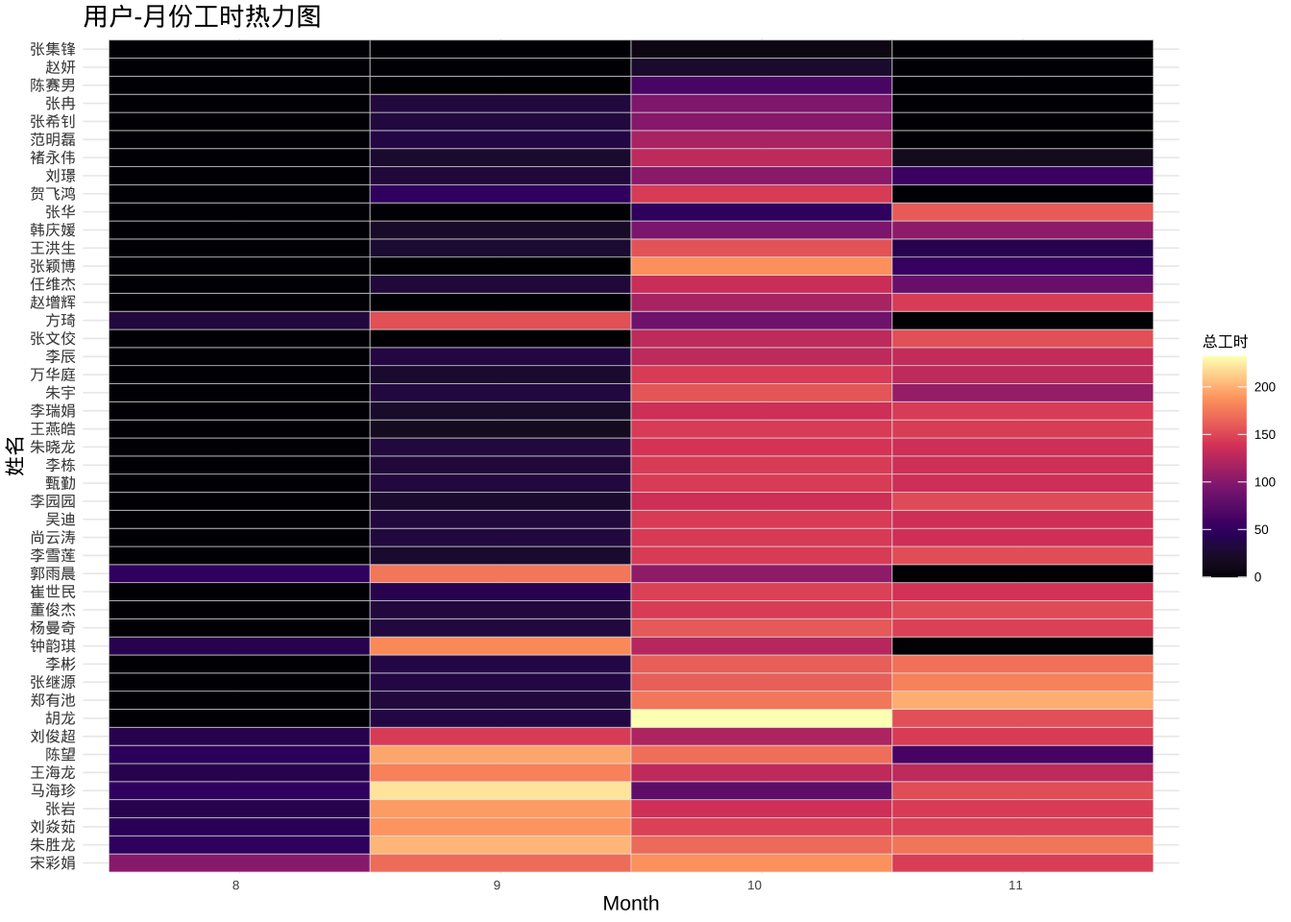
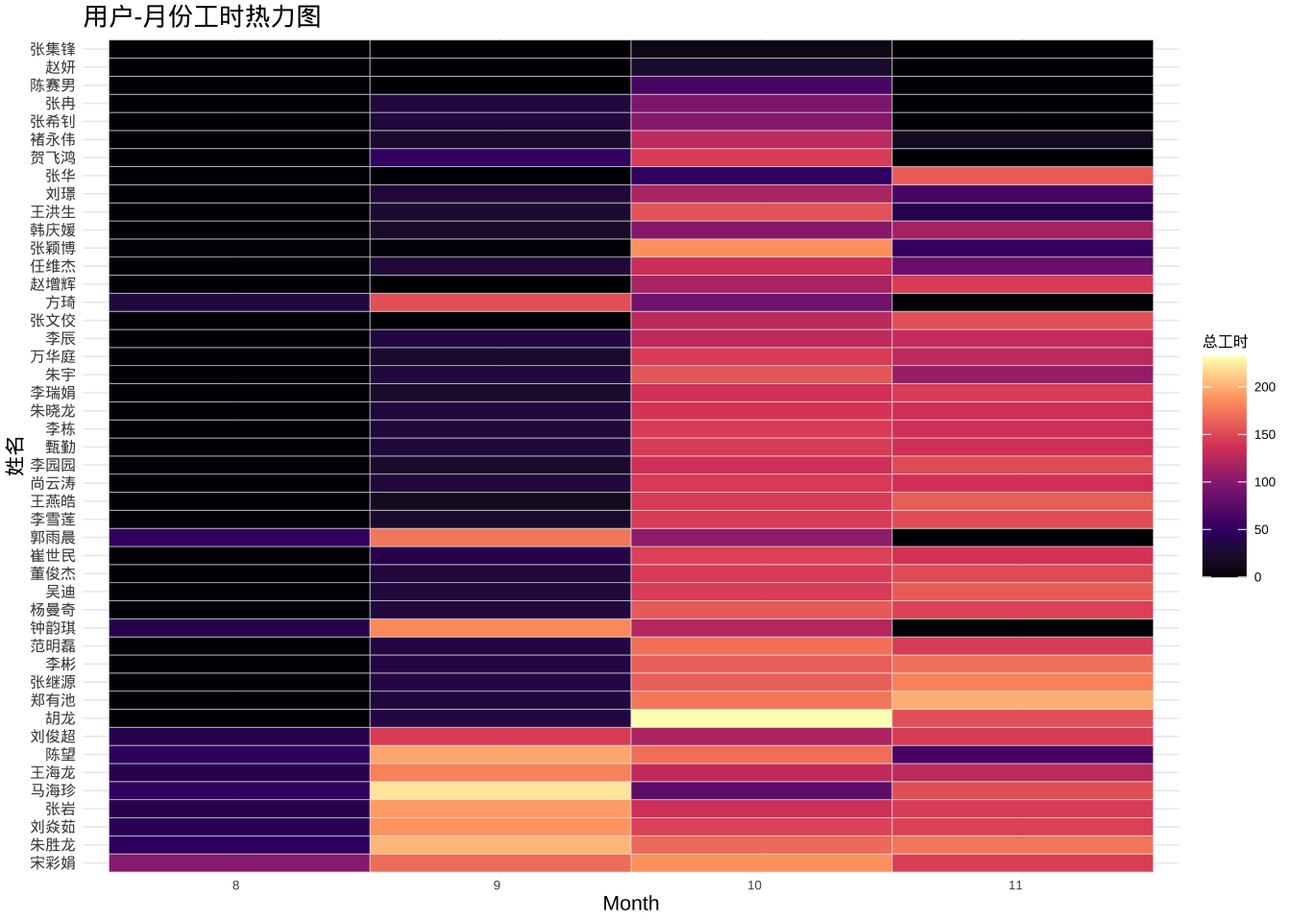
add 地坪图

Changed region(s): [[0.0, 0.125, 0.9062, 0.7188]]

diff --git a/project_hour.html b/project_hour.html
@@ -101,6 +101,7 @@ pre > code.sourceCode > span > a:first-child::before { text-decoration: underlin
   <ul class="collapse">
   <li><a href="#月度-项目工时分析" id="toc-月度-项目工时分析" class="nav-link" data-scroll-target="#月度-项目工时分析">2.1 月度-项目工时分析</a></li>
   <li><a href="#月度-员工工时分析" id="toc-月度-员工工时分析" class="nav-link" data-scroll-target="#月度-员工工时分析">2.2 月度-员工工时分析</a></li>
+  <li><a href="#项目地坪线图ridgeline-地坪线图" id="toc-项目地坪线图ridgeline-地坪线图" class="nav-link" data-scroll-target="#项目地坪线图ridgeline-地坪线图">3.3 项目地坪线图（Ridgeline / 地坪线图）</a></li>
   </ul></li>
   <li><a href="#分析图表" id="toc-分析图表" class="nav-link" data-scroll-target="#分析图表">3. 分析图表</a></li>
   <li><a href="#基于已有-user_hour-对象构造可复用的-ggplot-分析图" id="toc-基于已有-user_hour-对象构造可复用的-ggplot-分析图" class="nav-link" data-scroll-target="#基于已有-user_hour-对象构造可复用的-ggplot-分析图">3.1 基于已有 user_hour 对象构造可复用的 ggplot 分析图</a>
@@ -201,8 +202,8 @@ Caused by warning:
 <span id="cb3-9"><a href="#cb3-9" aria-hidden="true" tabindex="-1"></a><span class="fu">datatable</span>(project_hour)</span></code></pre></div><button title="Copy to Clipboard" class="code-copy-button"><i class="bi"></i></button></div>
 </details>
 <div class="cell-output-display">
-<div class="datatables html-widget html-fill-item" id="htmlwidget-3d39331e9e2b1d4514fa" style="width:100%;height:auto;"></div>
-<script type="application/json" data-for="htmlwidget-3d39331e9e2b1d4514fa">{"x":{"filter":"none","vertical":false,"data":[["1","2","3","4","5","6","7","8","9","10","11","12","13","14","15","16","17","18","19","20","21","22","23","24","25","26","27","28","29","30","31","32","33","34","35","36","37","38","39","40","41","42","43","44","45","46","47","48","49","50","51","52","53","54","55","56","57","58","59","60","61","62","63","64","65","66","67","68","69","70","71","72","73","74","75","76","77","78","79","80","81","82","83","84","85","86","87","88","89","90","91","92","93","94","95","96","97","98","99","100","101","102","103","104","105","106","107","108","109","110","111","112","113","114","115","116","117","118","119","120","121","122","123","124","125","126","127","128","129","130","131","132","133","134","135","136","137","138","139","140","141","142","143","144","145","146","147","148","149","150","151","152","153","154","155","156","157","158","159","160","161","162"],["10","10","10","10","10","10","10","10","10","10","10","10","10","10","10","10","10","10","10","10","10","10","10","10","10","10","10","10","10","10","10","10","10","10","10","10","10","10","10","10","10","10","10","10","10","10","10","10","10","10","10","10","10","10","10","10","10","10","10","10","10","11","11","11","11","11","11","11","11","11","11","11","11","11","11","11","11","11","11","11","11","11","11","11","11","11","11","11","11","11","11","11","11","11","11","11","11","11","11","11","11","11","11","11","11","11","11","11","11","11","11","8","8","8","8","8","8","8","8","8","9","9","9","9","9","9","9","9","9","9","9","9","9","9","9","9","9","9","9","9","9","9","9","9","9","9","9","9","9","9","9","9","9","9","9","9","9","9","9","9","9","9"],["B-咨询-北京通州梨园","BIM装配式建筑设计建造一体化","C-成都54亩项目","C-成都麓湖33+62亩项目","C-长沙天心区044地块项目二期调规24-02","C-长沙岳麓大道南54亩项目","C-长沙麓谷涉外地块项目","C端家装业务","G-咨询-广州天河梅花铝厂","G-精装-广州天河梅花铝厂","G-贵阳国际城J组团项目24-4","G-贵阳普天1#地项目","J-咨询-金华西关项目","J-工程-江门蓬江代建文化中心","M-房山改造投标","N-咨询-南沙坦尾旧改项目（融资地块）","Q-青岛惠水路项目（LC0302-33地块、LC0303-16地块、LC0303-17地块）","S-深圳光明区可研","S-深圳红花山项目","T-咨询-太原金碧天下","T-太原小店村代建项目25-6","T-太原彭村项目25-13","W-咨询-无锡南光置业","X-咨询-西安井上村DK8地块","X-咨询-西安港务区46亩项目","X-咨询-雄安站枢纽片区2号地项目","X-工程-雄安站枢纽片区2号地","X-工程-雄安站枢纽片区2号地二标段","X-工程-雄安站枢纽片区2号地四标段","X-雄安7号楼2栋6层东侧精装","Z-咨询-涿州391亩地项目","s-西安-西派和樾项目","上海松江新城C03A-04地块项目","业务研发","公共空间设计导则","其他","冒沙井","创一-南沙坦尾旧改项目","北京市通州区梨园项目","北京朝阳区松榆里项目","南通项目","咨询-零碳建筑技术体系及关键技术研究","城市更新中智慧停车的系统性研究","存量资产价值重塑及配套技术策略研究","安全生产“雷霆行动”","日常工作","日常性工作","樽2立面标准化研究","济南土河东项目","济南遥墙机场项目","涿州高铁新城","深化设计板块","物业痛点问题及节能改造","行政工作配合","西安中国铁建·语澜溪项目","西安港务区港务区46亩","西派玺樾项目","贵阳兰草坝棚户区03-01地块","酒店产品线课题","长沙天心区044地块项目","高定界面体系形象研究","A-上海-松江05-02","B-咨询-北京通州梨园","BIM装配式建筑设计建造一体化","C-咨询-成都双流区麓湖76亩项目","C-成都54亩项目","C-成都麓湖33+62亩项目","C-长沙天心区044地块项目二期调规24-02","C-长沙岳麓大道南54亩项目","C-长沙麓谷涉外地块项目","G-精装-广州天河梅花铝厂","G-贵阳普天1#地项目","J-咨询-金华西关项目","M-房山改造投标","Q-青岛惠水路项目（LC0302-33地块、LC0303-16地块、LC0303-17地块）","S-深圳光明区可研","S-深圳红花山项目","T-咨询-太原金碧天下","T-太原小店村代建项目25-6","T-太原彭村项目25-13","T-精装-天津花语尚东项目三四期","W-咨询-无锡南光置业","X-咨询-西安港务区46亩项目","X-工程-雄安站枢纽片区2号地","X-工程-雄安站枢纽片区2号地二标段","X-工程-雄安站枢纽片区2号地四标段","X-雄安7号楼2栋6层东侧精装","Z-咨询-涿州391亩地项目","上海松江新城C03A-04地块项目","上海西渡项目","业务研发","其他","创一-南沙坦尾旧改项目","北京亦庄新城1401地块","北京市通州区梨园项目","南通项目","咨询-零碳建筑技术体系及关键技术研究","存量资产价值重塑及配套技术策略研究","安全生产“雷霆行动”","日常工作","日常性工作","济南遥墙机场项目","深化设计板块","物业痛点问题及节能改造","立体山水创新研究","行政工作配合","西安井上村DK8地块项目","西安港务区代建108亩","酒店产品线课题","雄安C1-10-01地块项目","高定界面体系形象研究","B-咨询-北京通州梨园","BIM装配式建筑设计建造一体化","C-成都54亩项目","F-中山街道08/04两地块-25-2","X-雄安7号楼2栋6层东侧精装","上海松江新城C03A-04地块项目","日常性工作","济南遥墙机场项目","西安中国铁建·语澜溪项目","B-咨询-北京通州梨园","BIM装配式建筑设计建造一体化","C-成都54亩项目","C-成都麓湖33+62亩项目","C-长沙岳麓大道南54亩项目","F-中山街道08/04两地块-25-2","G-精装-广州天河梅花铝厂","G-贵阳国际城J组团项目24-4","J-咨询-金华西关项目","Q-青岛惠水路项目（LC0302-33地块、LC0303-16地块、LC0303-17地块）","S-深圳光明区可研","S-深圳红花山项目","T-咨询-天津国印二期三期项目","T-太原彭村项目25-13","W-咨询-无锡南光置业","X-咨询-西安井上村DK9地块","X-工程-雄安站枢纽片区2号地","X-工程-雄安站枢纽片区2号地二标段","X-工程-雄安站枢纽片区2号地四标段","X-雄安7号楼2栋6层东侧精装","上海松江新城C03A-04地块项目","业务研发","公共空间设计导则","其他","冒沙井","北京可研23-01","北京市通州区梨园项目","南通项目","可建造BIM钢结构项目管控","城市更新中智慧停车的系统性研究","存量资产价值重塑及配套技术策略研究","日常工作","日常性工作","松江新城项目","济南遥墙机场项目","深圳0823地块","物业痛点问题及节能改造","立体山水创新研究","行政工作配合","西安港务区港务区46亩","贵阳可研23-01","酒店产品线课题"],[167.5,427,374.5,86,10,83,24,52,16,241,11,8,134,1,18,17,487,73,187,12,26,334,16,5,4,6,98,21,317,108,30,8,182,56,49,224.5,8,6,80,72,6,48,48,385,44,85,307,16,75,169,64,33,150,47,5,1,8,34,335,2,42,16,119.5,483,8.5,171,223,8,284.5,16,342,20,3,6,16,9,604.5,77,69,322,30,40,3,158,2,202,18,14,116,2,49,87,9,18,3,5,30.5,213,36,152,68,96,120,134,4,67,1,31,91,72,22,40,124,152,8,8,96.5,52,40,6,81,525,341,32,28,52,48,8,12,72,33,24,20,72,8,5,34.5,15,58,104,451.7,30,10,20.5,4,6,51,11,32,15,58,8,254,5,200,8,48,4,1,12,4,62]],"container":"<table class=\"display\">\n  <thead>\n    <tr>\n      <th> <\/th>\n      <th>Month<\/th>\n      <th>项目名称<\/th>\n      <th>总工时<\/th>\n    <\/tr>\n  <\/thead>\n<\/table>","options":{"columnDefs":[{"className":"dt-right","targets":3},{"orderable":false,"targets":0},{"name":" ","targets":0},{"name":"Month","targets":1},{"name":"项目名称","targets":2},{"name":"总工时","targets":3}],"order":[],"autoWidth":false,"orderClasses":false}},"evals":[],"jsHooks":[]}</script>
+<div class="datatables html-widget html-fill-item" id="htmlwidget-e74c20ff4902f5d9cc43" style="width:100%;height:auto;"></div>
+<script type="application/json" data-for="htmlwidget-e74c20ff4902f5d9cc43">{"x":{"filter":"none","vertical":false,"data":[["1","2","3","4","5","6","7","8","9","10","11","12","13","14","15","16","17","18","19","20","21","22","23","24","25","26","27","28","29","30","31","32","33","34","35","36","37","38","39","40","41","42","43","44","45","46","47","48","49","50","51","52","53","54","55","56","57","58","59","60","61","62","63","64","65","66","67","68","69","70","71","72","73","74","75","76","77","78","79","80","81","82","83","84","85","86","87","88","89","90","91","92","93","94","95","96","97","98","99","100","101","102","103","104","105","106","107","108","109","110","111","112","113","114","115","116","117","118","119","120","121","122","123","124","125","126","127","128","129","130","131","132","133","134","135","136","137","138","139","140","141","142","143","144","145","146","147","148","149","150","151","152","153","154","155","156","157","158","159","160","161","162"],["10","10","10","10","10","10","10","10","10","10","10","10","10","10","10","10","10","10","10","10","10","10","10","10","10","10","10","10","10","10","10","10","10","10","10","10","10","10","10","10","10","10","10","10","10","10","10","10","10","10","10","10","10","10","10","10","10","10","10","10","10","11","11","11","11","11","11","11","11","11","11","11","11","11","11","11","11","11","11","11","11","11","11","11","11","11","11","11","11","11","11","11","11","11","11","11","11","11","11","11","11","11","11","11","11","11","11","11","11","11","11","8","8","8","8","8","8","8","8","8","9","9","9","9","9","9","9","9","9","9","9","9","9","9","9","9","9","9","9","9","9","9","9","9","9","9","9","9","9","9","9","9","9","9","9","9","9","9","9","9","9","9"],["B-咨询-北京通州梨园","BIM装配式建筑设计建造一体化","C-成都54亩项目","C-成都麓湖33+62亩项目","C-长沙天心区044地块项目二期调规24-02","C-长沙岳麓大道南54亩项目","C-长沙麓谷涉外地块项目","C端家装业务","G-咨询-广州天河梅花铝厂","G-精装-广州天河梅花铝厂","G-贵阳国际城J组团项目24-4","G-贵阳普天1#地项目","J-咨询-金华西关项目","J-工程-江门蓬江代建文化中心","M-房山改造投标","N-咨询-南沙坦尾旧改项目（融资地块）","Q-青岛惠水路项目（LC0302-33地块、LC0303-16地块、LC0303-17地块）","S-深圳光明区可研","S-深圳红花山项目","T-咨询-太原金碧天下","T-太原小店村代建项目25-6","T-太原彭村项目25-13","W-咨询-无锡南光置业","X-咨询-西安井上村DK8地块","X-咨询-西安港务区46亩项目","X-咨询-雄安站枢纽片区2号地项目","X-工程-雄安站枢纽片区2号地","X-工程-雄安站枢纽片区2号地二标段","X-工程-雄安站枢纽片区2号地四标段","X-雄安7号楼2栋6层东侧精装","Z-咨询-涿州391亩地项目","s-西安-西派和樾项目","上海松江新城C03A-04地块项目","业务研发","公共空间设计导则","其他","冒沙井","创一-南沙坦尾旧改项目","北京市通州区梨园项目","北京朝阳区松榆里项目","南通项目","咨询-零碳建筑技术体系及关键技术研究","城市更新中智慧停车的系统性研究","存量资产价值重塑及配套技术策略研究","安全生产“雷霆行动”","日常工作","日常性工作","樽2立面标准化研究","济南土河东项目","济南遥墙机场项目","涿州高铁新城","深化设计板块","物业痛点问题及节能改造","行政工作配合","西安中国铁建·语澜溪项目","西安港务区港务区46亩","西派玺樾项目","贵阳兰草坝棚户区03-01地块","酒店产品线课题","长沙天心区044地块项目","高定界面体系形象研究","A-上海-松江05-02","B-咨询-北京通州梨园","BIM装配式建筑设计建造一体化","C-咨询-成都双流区麓湖76亩项目","C-成都54亩项目","C-成都麓湖33+62亩项目","C-长沙天心区044地块项目二期调规24-02","C-长沙岳麓大道南54亩项目","C-长沙麓谷涉外地块项目","G-精装-广州天河梅花铝厂","G-贵阳普天1#地项目","J-咨询-金华西关项目","M-房山改造投标","Q-青岛惠水路项目（LC0302-33地块、LC0303-16地块、LC0303-17地块）","S-深圳光明区可研","S-深圳红花山项目","T-咨询-太原金碧天下","T-太原小店村代建项目25-6","T-太原彭村项目25-13","T-精装-天津花语尚东项目三四期","W-咨询-无锡南光置业","X-咨询-西安港务区46亩项目","X-工程-雄安站枢纽片区2号地","X-工程-雄安站枢纽片区2号地二标段","X-工程-雄安站枢纽片区2号地四标段","X-雄安7号楼2栋6层东侧精装","Z-咨询-涿州391亩地项目","上海松江新城C03A-04地块项目","上海西渡项目","业务研发","其他","创一-南沙坦尾旧改项目","北京亦庄新城1401地块","北京市通州区梨园项目","南通项目","咨询-零碳建筑技术体系及关键技术研究","存量资产价值重塑及配套技术策略研究","安全生产“雷霆行动”","日常工作","日常性工作","济南遥墙机场项目","深化设计板块","物业痛点问题及节能改造","立体山水创新研究","行政工作配合","西安井上村DK8地块项目","西安港务区代建108亩","酒店产品线课题","雄安C1-10-01地块项目","高定界面体系形象研究","B-咨询-北京通州梨园","BIM装配式建筑设计建造一体化","C-成都54亩项目","F-中山街道08/04两地块-25-2","X-雄安7号楼2栋6层东侧精装","上海松江新城C03A-04地块项目","日常性工作","济南遥墙机场项目","西安中国铁建·语澜溪项目","B-咨询-北京通州梨园","BIM装配式建筑设计建造一体化","C-成都54亩项目","C-成都麓湖33+62亩项目","C-长沙岳麓大道南54亩项目","F-中山街道08/04两地块-25-2","G-精装-广州天河梅花铝厂","G-贵阳国际城J组团项目24-4","J-咨询-金华西关项目","Q-青岛惠水路项目（LC0302-33地块、LC0303-16地块、LC0303-17地块）","S-深圳光明区可研","S-深圳红花山项目","T-咨询-天津国印二期三期项目","T-太原彭村项目25-13","W-咨询-无锡南光置业","X-咨询-西安井上村DK9地块","X-工程-雄安站枢纽片区2号地","X-工程-雄安站枢纽片区2号地二标段","X-工程-雄安站枢纽片区2号地四标段","X-雄安7号楼2栋6层东侧精装","上海松江新城C03A-04地块项目","业务研发","公共空间设计导则","其他","冒沙井","北京可研23-01","北京市通州区梨园项目","南通项目","可建造BIM钢结构项目管控","城市更新中智慧停车的系统性研究","存量资产价值重塑及配套技术策略研究","日常工作","日常性工作","松江新城项目","济南遥墙机场项目","深圳0823地块","物业痛点问题及节能改造","立体山水创新研究","行政工作配合","西安港务区港务区46亩","贵阳可研23-01","酒店产品线课题"],[167.5,427,374.5,86,10,83,44,52,16,241,11,8,134,1,18,17,487,73,229,12,23,334,16,5,4,6,98,21,317,108,30,8,182,56,49,236.5,8,6,80,72,6,48,48,385,44,85,307,16,75,169,64,33,150,51,5,1,8,34,335,2,42,16,119.5,483,8.5,171,223,8,274.5,53,350,20,3,6,16,9,748.5,61,69,322,30,40,3,158,2,202,26,14,116,2,49,87,9,18,3,5,30.5,213,36,160,74,96,120,134,6,67,1,31,107,72,22,40,124,152,8,8,96.5,52,40,6,81,525,341,32,28,52,48,8,12,72,33,24,20,72,8,5,34.5,15,58,104,451.7,30,10,20.5,4,6,51,11,32,15,58,8,254,5,200,8,48,4,1,12,4,62]],"container":"<table class=\"display\">\n  <thead>\n    <tr>\n      <th> <\/th>\n      <th>Month<\/th>\n      <th>项目名称<\/th>\n      <th>总工时<\/th>\n    <\/tr>\n  <\/thead>\n<\/table>","options":{"columnDefs":[{"className":"dt-right","targets":3},{"orderable":false,"targets":0},{"name":" ","targets":0},{"name":"Month","targets":1},{"name":"项目名称","targets":2},{"name":"总工时","targets":3}],"order":[],"autoWidth":false,"orderClasses":false}},"evals":[],"jsHooks":[]}</script>
 </div>
 </div>
 </section>
@@ -223,8 +224,8 @@ Caused by warning:
 <span id="cb4-10"><a href="#cb4-10" aria-hidden="true" tabindex="-1"></a><span class="fu">datatable</span>(user_hour)</span></code></pre></div><button title="Copy to Clipboard" class="code-copy-button"><i class="bi"></i></button></div>
 </details>
 <div class="cell-output-display">
-<div class="datatables html-widget html-fill-item" id="htmlwidget-f560bc6de32649d20a88" style="width:100%;height:auto;"></div>
-<script type="application/json" data-for="htmlwidget-f560bc6de32649d20a88">{"x":{"filter":"none","vertical":false,"data":[["1","2","3","4","5","6","7","8","9","10","11","12","13","14","15","16","17","18","19","20","21","22","23","24","25","26","27","28","29","30","31","32","33","34","35","36","37","38","39","40","41","42","43","44","45","46","47","48","49","50","51","52","53","54","55","56","57","58","59","60","61","62","63","64","65","66","67","68","69","70","71","72","73","74","75","76","77","78","79","80","81","82","83","84","85","86","87","88","89","90","91","92","93","94","95","96","97","98","99","100","101","102","103","104","105","106","107","108","109","110","111","112","113","114","115","116","117","118","119","120","121","122","123","124","125","126","127","128","129","130","131","132"],["10","10","10","10","10","10","10","10","10","10","10","10","10","10","10","10","10","10","10","10","10","10","10","10","10","10","10","10","10","10","10","10","10","10","10","10","10","10","10","10","10","10","10","10","10","10","11","11","11","11","11","11","11","11","11","11","11","11","11","11","11","11","11","11","11","11","11","11","11","11","11","11","11","11","11","11","11","11","11","11","11","11","8","8","8","8","8","8","8","8","8","8","8","9","9","9","9","9","9","9","9","9","9","9","9","9","9","9","9","9","9","9","9","9","9","9","9","9","9","9","9","9","9","9","9","9","9","9","9","9","9","9"],["万华庭","任维杰","刘俊超","刘焱茹","刘璟","吴迪","宋彩娟","尚云涛","崔世民","张冉","张华","张岩","张希钊","张文佼","张继源","张集锋","张颖博","方琦","朱宇","朱晓龙","朱胜龙","李园园","李彬","李栋","李瑞娟","李辰","李雪莲","杨曼奇","王洪生","王海龙","王燕皓","甄勤","胡龙","范明磊","董俊杰","褚永伟","贺飞鸿","赵增辉","赵妍","郑有池","郭雨晨","钟韵琪","陈望","陈赛男","韩庆媛","马海珍","万华庭","任维杰","刘俊超","刘焱茹","刘璟","吴迪","宋彩娟","尚云涛","崔世民","张华","张岩","张文佼","张继源","张颖博","朱宇","朱晓龙","朱胜龙","李园园","李彬","李栋","李瑞娟","李辰","李雪莲","杨曼奇","王洪生","王海龙","王燕皓","甄勤","胡龙","董俊杰","褚永伟","赵增辉","郑有池","陈望","韩庆媛","马海珍","刘俊超","刘焱茹","宋彩娟","张岩","方琦","朱胜龙","王海龙","郭雨晨","钟韵琪","陈望","马海珍","万华庭","任维杰","刘俊超","刘焱茹","刘璟","吴迪","宋彩娟","尚云涛","崔世民","张冉","张岩","张希钊","张继源","方琦","朱宇","朱晓龙","朱胜龙","李园园","李彬","李栋","李瑞娟","李辰","李雪莲","杨曼奇","王洪生","王海龙","王燕皓","甄勤","胡龙","范明磊","董俊杰","褚永伟","贺飞鸿","郑有池","郭雨晨","钟韵琪","陈望","韩庆媛","马海珍"],[144,134,120,147,102,144,187.5,143.5,147,96,48,136,100,128,162,8,187,88,157,140,167.5,136,162,144,136,128,144,159,156,129,144,144,232,117,144,128,144,117,24,174,104,124,170,64,95,78,128,84,144,147,56,136,145,137,139,160,144,154,180,52,108,136,173.5,152,171,136,144,131,153,147,40,128,145,136,154,152,16,144,199,63,104,153,40,44,101,40,32,47.5,40,48,40,45,49,24,31,144,189,31,32,168,32,40,32,192,32,36,154,33,32,202.7,24,36,31,22,35,24,33,26,180,16,32,36,36,32,24,48,32,174,184,196,21,221]],"container":"<table class=\"display\">\n  <thead>\n    <tr>\n      <th> <\/th>\n      <th>Month<\/th>\n      <th>姓名<\/th>\n      <th>总工时<\/th>\n    <\/tr>\n  <\/thead>\n<\/table>","options":{"columnDefs":[{"className":"dt-right","targets":3},{"orderable":false,"targets":0},{"name":" ","targets":0},{"name":"Month","targets":1},{"name":"姓名","targets":2},{"name":"总工时","targets":3}],"order":[],"autoWidth":false,"orderClasses":false}},"evals":[],"jsHooks":[]}</script>
+<div class="datatables html-widget html-fill-item" id="htmlwidget-7a595a23cb1ade4167ad" style="width:100%;height:auto;"></div>
+<script type="application/json" data-for="htmlwidget-7a595a23cb1ade4167ad">{"x":{"filter":"none","vertical":false,"data":[["1","2","3","4","5","6","7","8","9","10","11","12","13","14","15","16","17","18","19","20","21","22","23","24","25","26","27","28","29","30","31","32","33","34","35","36","37","38","39","40","41","42","43","44","45","46","47","48","49","50","51","52","53","54","55","56","57","58","59","60","61","62","63","64","65","66","67","68","69","70","71","72","73","74","75","76","77","78","79","80","81","82","83","84","85","86","87","88","89","90","91","92","93","94","95","96","97","98","99","100","101","102","103","104","105","106","107","108","109","110","111","112","113","114","115","116","117","118","119","120","121","122","123","124","125","126","127","128","129","130","131","132","133"],["10","10","10","10","10","10","10","10","10","10","10","10","10","10","10","10","10","10","10","10","10","10","10","10","10","10","10","10","10","10","10","10","10","10","10","10","10","10","10","10","10","10","10","10","10","10","11","11","11","11","11","11","11","11","11","11","11","11","11","11","11","11","11","11","11","11","11","11","11","11","11","11","11","11","11","11","11","11","11","11","11","11","11","8","8","8","8","8","8","8","8","8","8","8","9","9","9","9","9","9","9","9","9","9","9","9","9","9","9","9","9","9","9","9","9","9","9","9","9","9","9","9","9","9","9","9","9","9","9","9","9","9","9"],["万华庭","任维杰","刘俊超","刘焱茹","刘璟","吴迪","宋彩娟","尚云涛","崔世民","张冉","张华","张岩","张希钊","张文佼","张继源","张集锋","张颖博","方琦","朱宇","朱晓龙","朱胜龙","李园园","李彬","李栋","李瑞娟","李辰","李雪莲","杨曼奇","王洪生","王海龙","王燕皓","甄勤","胡龙","范明磊","董俊杰","褚永伟","贺飞鸿","赵增辉","赵妍","郑有池","郭雨晨","钟韵琪","陈望","陈赛男","韩庆媛","马海珍","万华庭","任维杰","刘俊超","刘焱茹","刘璟","吴迪","宋彩娟","尚云涛","崔世民","张华","张岩","张文佼","张继源","张颖博","朱宇","朱晓龙","朱胜龙","李园园","李彬","李栋","李瑞娟","李辰","李雪莲","杨曼奇","王洪生","王海龙","王燕皓","甄勤","胡龙","范明磊","董俊杰","褚永伟","赵增辉","郑有池","陈望","韩庆媛","马海珍","刘俊超","刘焱茹","宋彩娟","张岩","方琦","朱胜龙","王海龙","郭雨晨","钟韵琪","陈望","马海珍","万华庭","任维杰","刘俊超","刘焱茹","刘璟","吴迪","宋彩娟","尚云涛","崔世民","张冉","张岩","张希钊","张继源","方琦","朱宇","朱晓龙","朱胜龙","李园园","李彬","李栋","李瑞娟","李辰","李雪莲","杨曼奇","王洪生","王海龙","王燕皓","甄勤","胡龙","范明磊","董俊杰","褚永伟","贺飞鸿","郑有池","郭雨晨","钟韵琪","陈望","韩庆媛","马海珍"],[144,134,120,147,118,144,187.5,143.5,147,96,48,136,100,128,162,8,187,88,157,140,167.5,136,162,144,136,128,144,159,156,129,144,144,232,171,144,128,144,117,24,174,104,124,170,64,100,78,128,84,144,147,64,160,145,137,139,160,144,154,180,52,108,136,173.5,152,171,136,144,131,153,147,40,128,161,136,154,144,152,16,144,199,63,115,153,40,44,101,40,32,47.5,40,48,40,45,49,24,31,144,189,31,32,168,32,40,32,192,32,36,154,33,32,202.7,24,36,31,22,35,24,33,26,180,16,32,36,36,32,24,48,32,174,184,196,21,221]],"container":"<table class=\"display\">\n  <thead>\n    <tr>\n      <th> <\/th>\n      <th>Month<\/th>\n      <th>姓名<\/th>\n      <th>总工时<\/th>\n    <\/tr>\n  <\/thead>\n<\/table>","options":{"columnDefs":[{"className":"dt-right","targets":3},{"orderable":false,"targets":0},{"name":" ","targets":0},{"name":"Month","targets":1},{"name":"姓名","targets":2},{"name":"总工时","targets":3}],"order":[],"autoWidth":false,"orderClasses":false}},"evals":[],"jsHooks":[]}</script>
 </div>
 </div>
 <div class="cell">
@@ -232,6 +233,18 @@ Caused by warning:
 <summary>Code</summary>
 <div class="code-copy-outer-scaffold"><div class="sourceCode cell-code" id="cb5"><pre class="sourceCode r code-with-copy"><code class="sourceCode r"><span id="cb5-1"><a href="#cb5-1" aria-hidden="true" tabindex="-1"></a><span class="fu">invisible</span>(<span class="fu">list</span>(<span class="at">project_hour =</span> project_hour, <span class="at">user_hour =</span> user_hour))</span></code></pre></div><button title="Copy to Clipboard" class="code-copy-button"><i class="bi"></i></button></div>
 </details>
+</div>
+</section>
+<section id="项目地坪线图ridgeline-地坪线图" class="level2">
+<h2 class="anchored" data-anchor-id="项目地坪线图ridgeline-地坪线图">3.3 项目地坪线图（Ridgeline / 地坪线图）</h2>
+<div class="cell">
+<div class="cell-output-display">
+<div>
+<figure class="figure">
+<p><img src="project_hour_files/figure-html/unnamed-chunk-6-1.png" class="img-fluid figure-img" width="672"></p>
+</figure>
+</div>
+</div>
 </div>
 </section>
 </section>
@@ -351,7 +364,7 @@ Caused by warning:
 <div class="cell-output-display">
 <div>
 <figure class="figure">
-<p><img src="project_hour_files/figure-html/unnamed-chunk-6-1.png" class="img-fluid figure-img" width="672"></p>
+<p><img src="project_hour_files/figure-html/unnamed-chunk-7-1.png" class="img-fluid figure-img" width="672"></p>
 </figure>
 </div>
 </div>
@@ -362,7 +375,7 @@ $monthly_dodge</code></pre>
 <div class="cell-output-display">
 <div>
 <figure class="figure">
-<p><img src="project_hour_files/figure-html/unnamed-chunk-6-2.png" class="img-fluid figure-img" width="672"></p>
+<p><img src="project_hour_files/figure-html/unnamed-chunk-7-2.png" class="img-fluid figure-img" width="672"></p>
 </figure>
 </div>
 </div>
@@ -373,7 +386,7 @@ $heatmap</code></pre>
 <div class="cell-output-display">
 <div>
 <figure class="figure">
-<p><img src="project_hour_files/figure-html/unnamed-chunk-6-3.png" class="img-fluid figure-img" width="672"></p>
+<p><img src="project_hour_files/figure-html/unnamed-chunk-7-3.png" class="img-fluid figure-img" width="672"></p>
 </figure>
 </div>
 </div>
@@ -491,7 +504,7 @@ $heatmap</code></pre>
 <div class="cell-output-display">
 <div>
 <figure class="figure">
-<p><img src="project_hour_files/figure-html/unnamed-chunk-7-1.png" class="img-fluid figure-img" width="672"></p>
+<p><img src="project_hour_files/figure-html/unnamed-chunk-8-1.png" class="img-fluid figure-img" width="672"></p>
 </figure>
 </div>
 </div>
@@ -502,7 +515,7 @@ $top_trends</code></pre>
 <div class="cell-output-display">
 <div>
 <figure class="figure">
-<p><img src="project_hour_files/figure-html/unnamed-chunk-7-2.png" class="img-fluid figure-img" width="672"></p>
+<p><img src="project_hour_files/figure-html/unnamed-chunk-8-2.png" class="img-fluid figure-img" width="672"></p>
 </figure>
 </div>
 </div>
@@ -513,7 +526,7 @@ $heatmap</code></pre>
 <div class="cell-output-display">
 <div>
 <figure class="figure">
-<p><img src="project_hour_files/figure-html/unnamed-chunk-7-3.png" class="img-fluid figure-img" width="672"></p>
+<p><img src="project_hour_files/figure-html/unnamed-chunk-8-3.png" class="img-fluid figure-img" width="672"></p>
 </figure>
 </div>
 </div>
